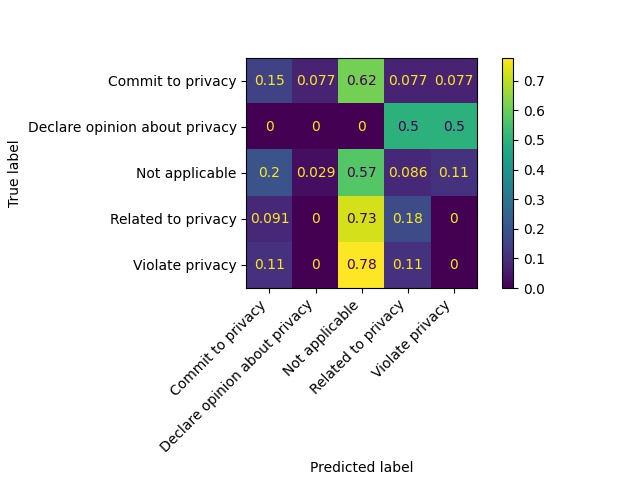
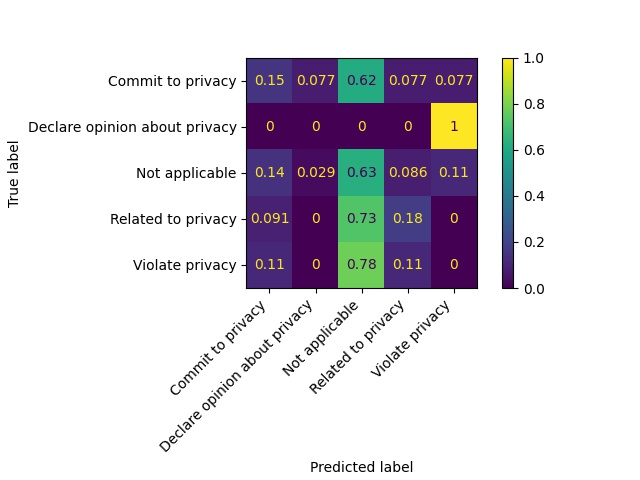
ridge classifier with unk  < 2, poor results

diff --git a/AIclassifier.py b/AIclassifier.py
@@ -118,7 +118,7 @@ word_freq = Counter(tokens)
 # FLAG - checked
 
 # Remove words less frequent than  2 (or equal?)
-corpus_with_unk = [word[0] for word in word_freq.items() if int(word[1]) > 1] # < 2 or <= 2
+corpus_with_unk = [word[0] for word in word_freq.items() if int(word[1]) > 2] # < 2 or <= 2
 #print(corpus_with_unk)
 
 #### FLAG - REVIEW IF WORD FREQUENCY SHOULD BE COUNTED WITHOUT SPACY TOKENIZATION 
